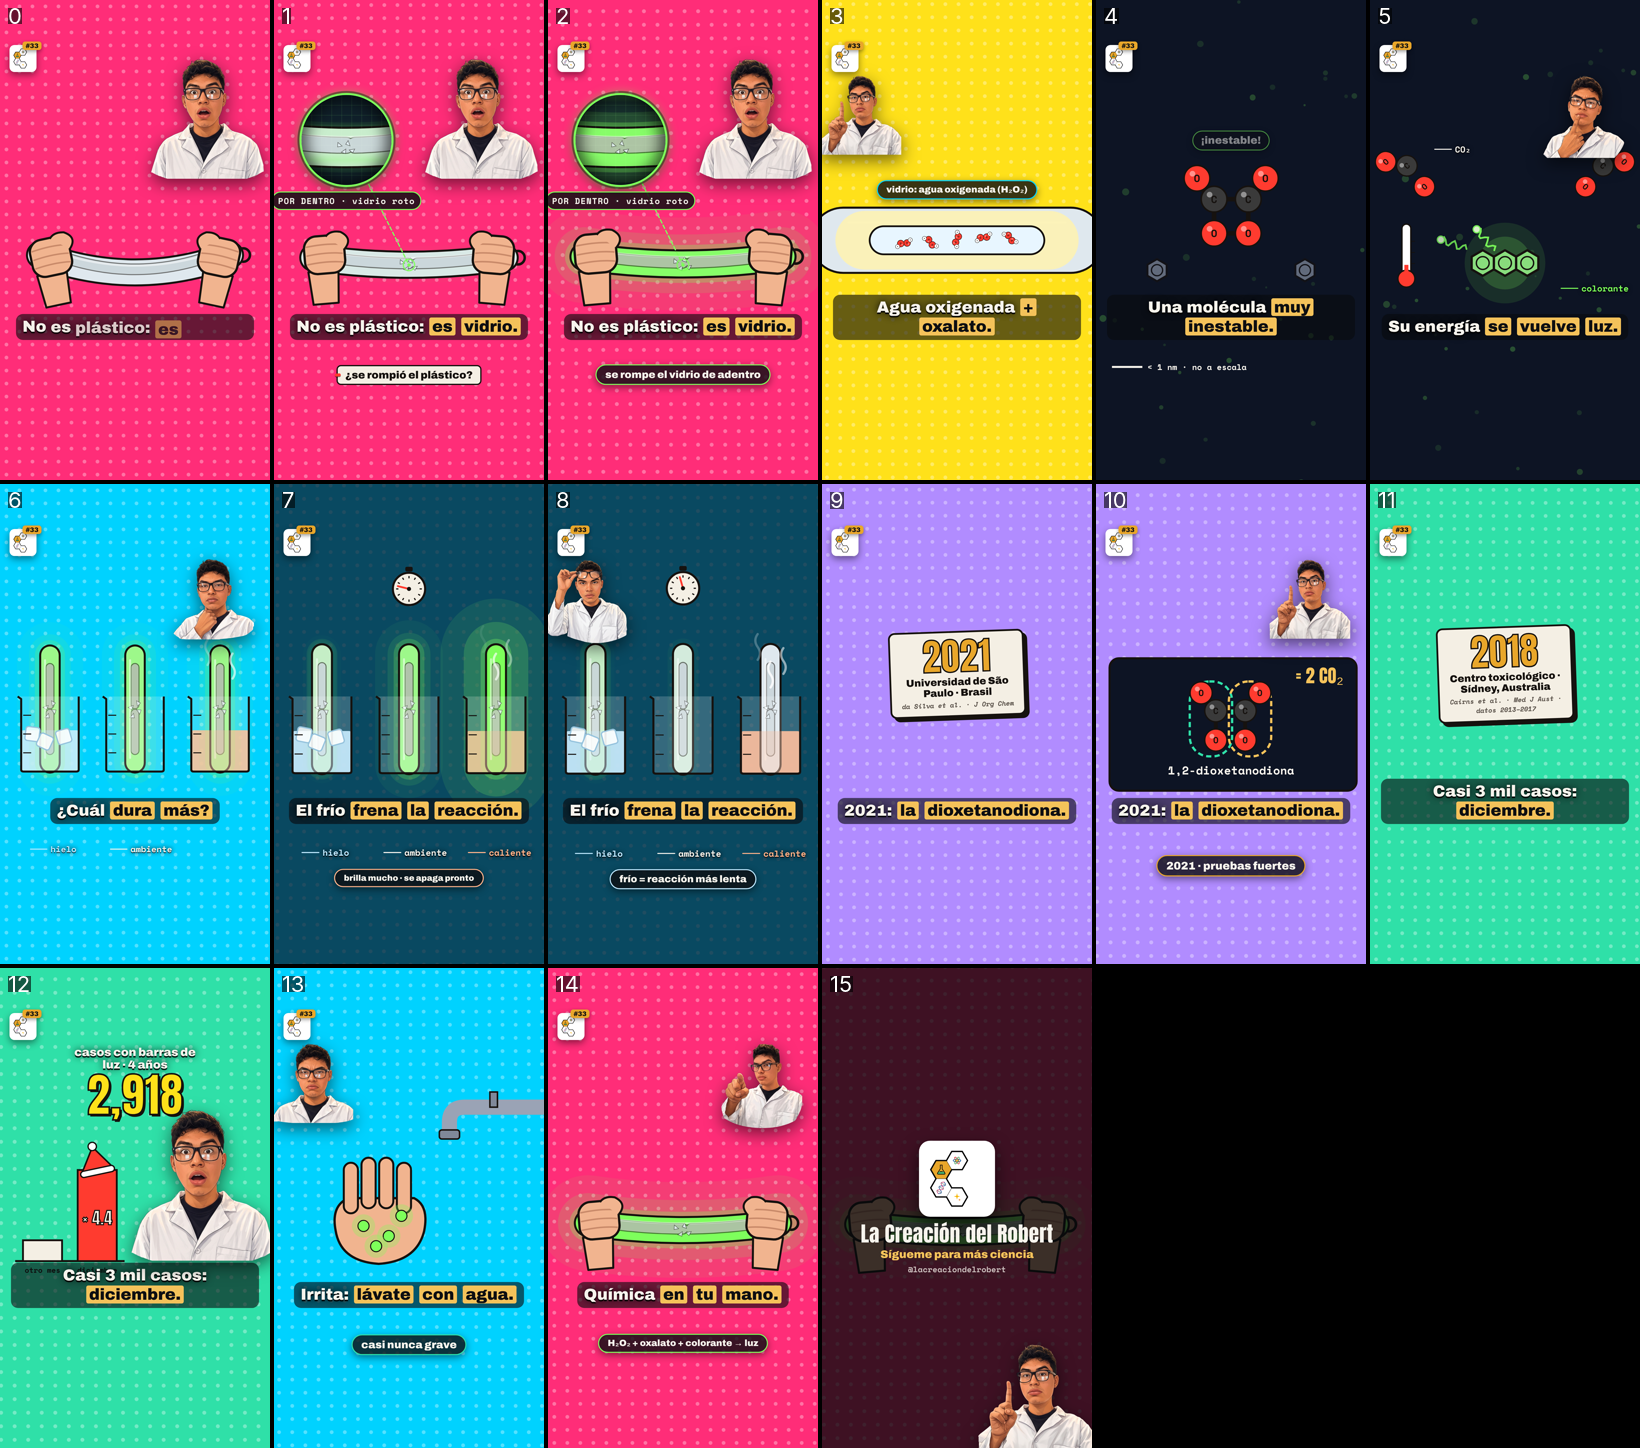
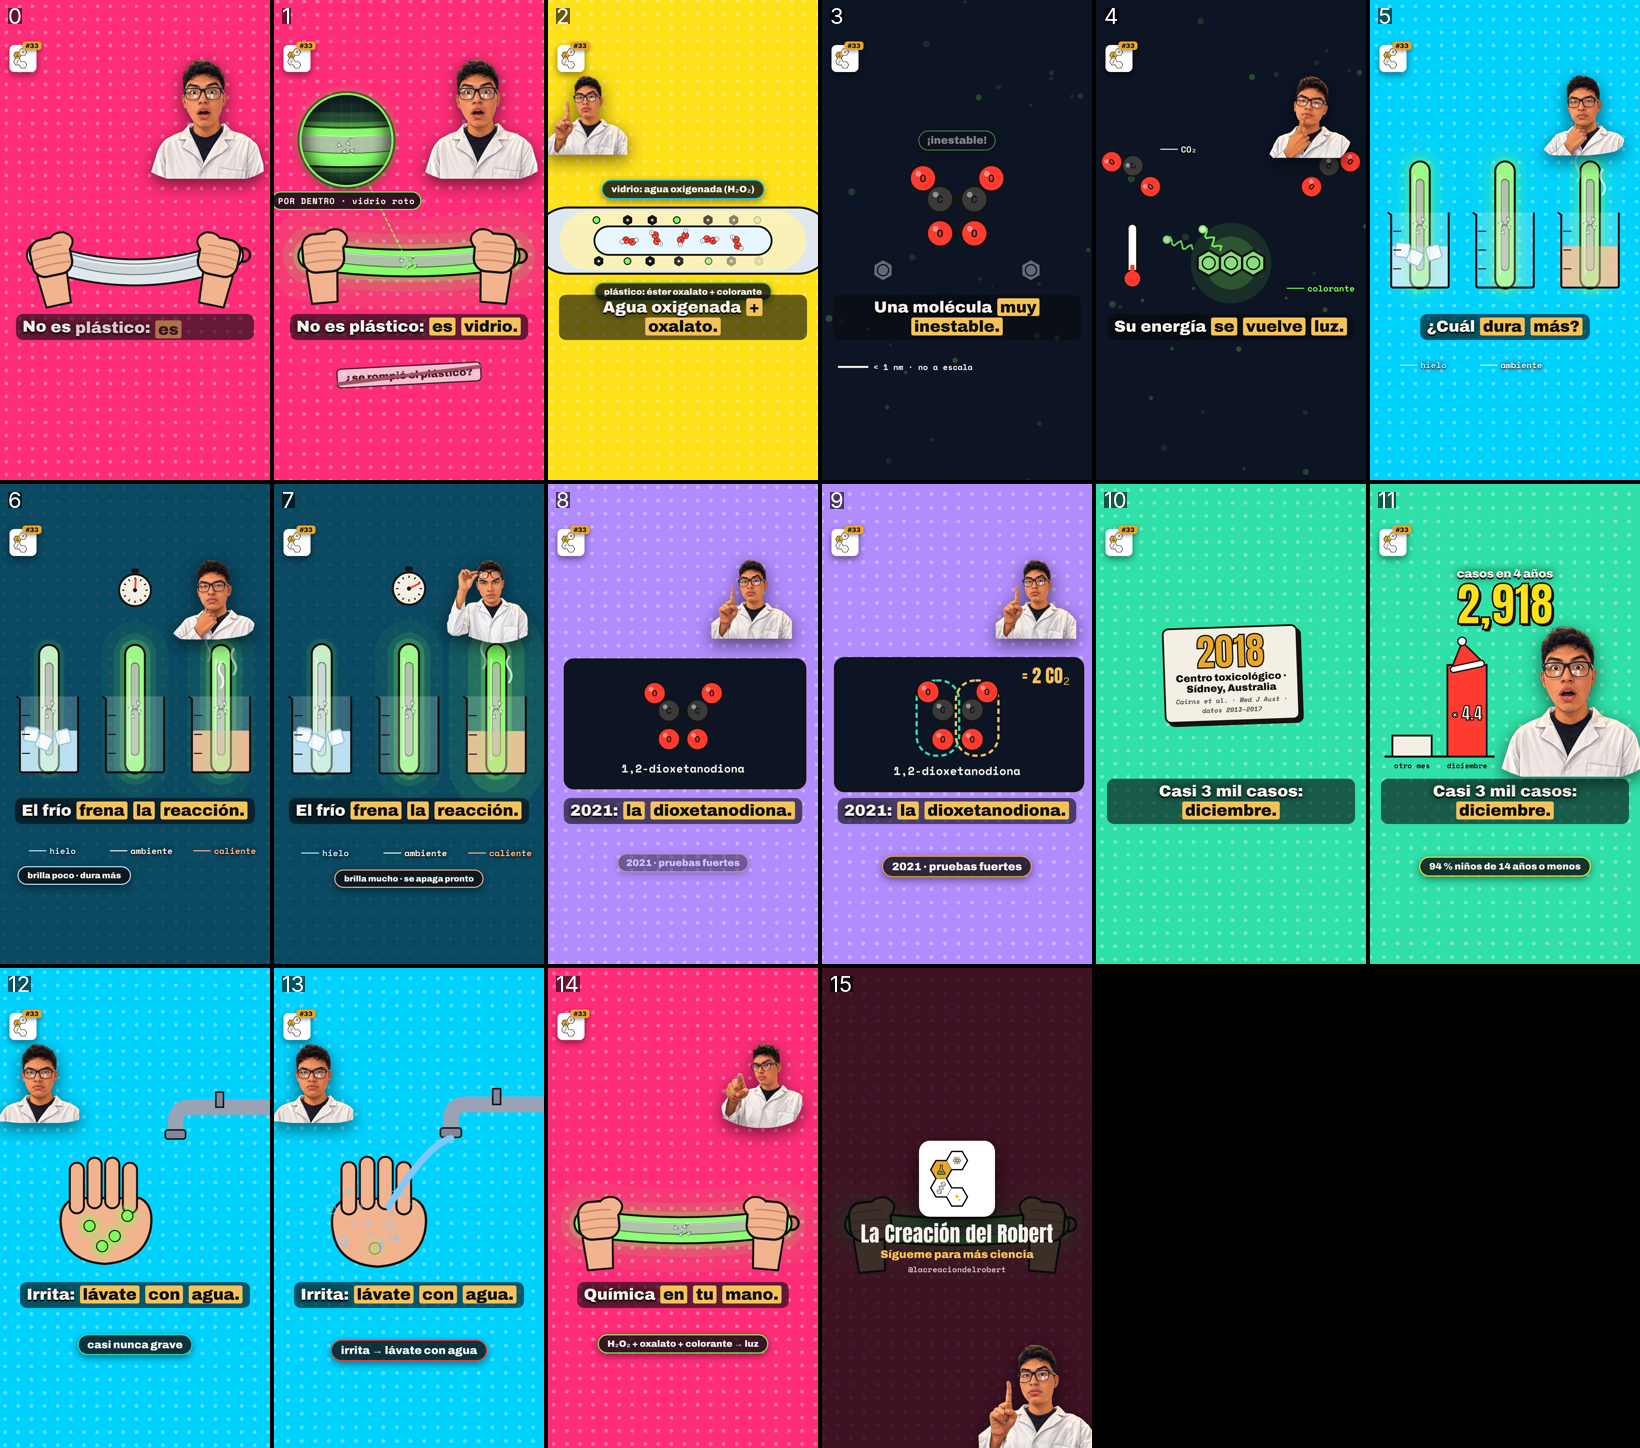
Químico: avance en progreso [sin render]
Claude-Session: https://claude.ai/code/session_0157fpgzuJM3ymsKtSoqvmnt

diff --git a/borradores/qui-30-protector-solar/protector.jsx b/borradores/qui-30-protector-solar/protector.jsx
@@ -294,7 +294,7 @@ function Protector() {
         <SvgCapa>
           <Sol T={T} x={560} y={420} r={60} />
           {Array.from({ length: 6 }, (_, i) => <path key={i} d={`M ${i * 200 - 40 + (T * 30) % 200} 800 q 50 -24 100 0`} stroke="#bfe8ff" strokeWidth={6} fill="none" />)}
-          {Array.from({ length: 42 }, (_, i) => { const c = i % 7, r = Math.floor(i / 7), on = kprog(T, K.Pl + 0.8 + i * 0.05, K.Pl + 1.0 + i * 0.05, kEase.rebote), fuera = 1 - kprog(T, K.Pl + 3.4, K.Pl + 3.8);
+          {Array.from({ length: 42 }, (_, i) => { const c = i % 7, r = Math.floor(i / 7), on = kprog(T, K.Pl + 0.8 + i * 0.05, K.Pl + 1.0 + i * 0.05, kEase.rebote), fuera = 1 - kprog(T, K.Pl + 3.2, K.Pl + 3.5);
             return on > 0 ? <Personita key={i} x={110 + c * 80} y={930 + r * 50} s={0.9 * on} o={fuera} color={[KC.pink, KC.orange, KC.mint, KC.lilac, KC.cyan][i % 5]} /> : null; })}
           {(() => { const o2 = kprog(T, K.Pl + 3.6, K.Pl + 4.1), pie = kprog(T, K.Pl + 4.3, K.Pl + 5.2, kEase.sale);
             if (o2 <= 0) return null;
@@ -308,7 +308,7 @@ function Protector() {
               <text x={790} y={880} textAnchor="middle" style={{ font:`400 70px ${KF.titulo}` }} fill={KC.ink}>¼</text>
             </g>; })()}
         </SvgCapa>
-        <div style={{ position:'absolute', left:850, top:1030, transform:'translate(-50%,-50%)', zIndex:41, textAlign:'center', opacity:kprog(T, K.Pl + 0.8, K.Pl + 1.1) * (1 - kprog(T, K.Pl + 3.4, K.Pl + 3.8)) }}>
+        <div style={{ position:'absolute', left:850, top:1030, transform:'translate(-50%,-50%)', zIndex:41, textAlign:'center', opacity:kprog(T, K.Pl + 0.8, K.Pl + 1.1) * (1 - kprog(T, K.Pl + 3.2, K.Pl + 3.5)) }}>
           <div style={{ font:`400 150px/1 ${KF.titulo}`, color:KC.texto, WebkitTextStroke:`5px ${KC.ink}` }}>{Math.min(42, Math.max(0, Math.floor((T - K.Pl - 0.8) / 0.05) + 1))}</div>
           <div style={{ font:`900 36px ${KF.texto}`, color:KC.ink }}>personas</div>
         </div>
@@ -356,7 +356,7 @@ function Protector() {
       <Chip T={T} at={K.Ca + 0.4} until={K.Pr - 0.2} texto="energía → un poquito de calor" y={1500} tam={40} borde={CALOR} />
       <Chip T={T} at={K.Pr + 0.3} until={K.Es - 0.2} texto="óxido de zinc · dióxido de titanio" y={1500} tam={36} borde={KC.texto} />
       <TarjetaEstudio T={T} at={K.Es + 0.2} until={K.Es + 3.3} anio="2016" quien="Cole, Shyr y Ou-Yang" revista="Nueva Jersey, EUA · esfera integradora" y={1590} />
-      <MitoTachado T={T} at={K.Es + 3.7} tacharEn={K.Es + 5.0} until={K.Fp - 0.2} texto="minerales = espejitos" y={1700} tam={40} />
+      <MitoTachado T={T} at={K.Es + 3.7} tacharEn={K.Es + 5.0} until={K.Fp - 0.2} texto="minerales = espejitos" y={1780} tam={40} />
       <Chip T={T} at={K.La + 3.6} until={K.Pl - 0.2} texto="así se mide la etiqueta (FDA)" y={1500} tam={40} borde={KC.gold} />
       <Chip T={T} at={K.La + 0.6} until={K.La + 3.4} texto="2 mg en cada cm² de piel" y={1500} tam={42} borde={KC.gold} />
       <TarjetaEstudio T={T} at={K.Pl + 0.2} until={K.Pl + 3.1} anio="1992" quien="Bech-Thomsen y Wulf" revista="investigadores de Copenhague, Dinamarca" y={1590} />
@@ -374,8 +374,8 @@ function Protector() {
       <Subtitulo T={T} idx={6} at={K.Fp + 0.1} until={K.La - 0.1} texto="FPS 30: *filtra 97 %.*" />
       <Subtitulo T={T} idx={7} at={K.La + 0.1} until={K.Pl - 0.1} texto="En laboratorio: *2 mg/cm².*" />
       <Subtitulo T={T} idx={8} at={K.Pl + 0.1} until={K.Me - 0.1} texto="Playa: *la cuarta parte.*" />
-      <Subtitulo T={T} idx={9} at={K.Me + 0.1} until={K.Ci - 0.1} texto="Con menos: *protege menos.*" />
-      <Subtitulo T={T} idx={10} at={K.Ci + 0.1} until={K.Ou - 0.1} texto="Esponja: *ponle suficiente.*" />
+      <Subtitulo T={T} idx={9} at={K.Me + 0.1} until={K.Ci - 0.1} texto="Menos crema, *menos FPS.*" />
+      <Subtitulo T={T} idx={10} at={K.Ci + 0.1} until={K.Ou - 0.1} texto="*Esponja:* ponle suficiente." />
 
       <Robert T={T} apariciones={[
         [CUES.Gancho - 0.45, CUES.Gancho + 5.0, 'avatar_11_sorprendido', 'gancho'],

diff --git a/borradores/qui-33-barras-luz/barraluz.jsx b/borradores/qui-33-barras-luz/barraluz.jsx
@@ -255,18 +255,18 @@ function BarraLuzShot() {
         <FondoLunares color={KC.mint} />
         <SvgCapa>
           <g opacity={kprog(T, K.Da + 4.6, K.Da + 5.0)}>
-            <line x1={80} y1={1160} x2={500} y2={1160} stroke={KC.ink} strokeWidth={8} />
-            <rect x={110} y={1160 - 80} width={150} height={80} fill={KC.paper} stroke={KC.ink} strokeWidth={7} />
-            <rect x={320} y={1160 - 80 - 270 * barraDic} width={150} height={80 + 270 * barraDic} fill={KC.red} stroke={KC.ink} strokeWidth={7} />
-            <text x={185} y={1205} textAnchor="middle" style={{ font:`700 28px ${KF.mono}` }} fill={KC.ink}>otro mes</text>
-            <text x={395} y={1205} textAnchor="middle" style={{ font:`700 28px ${KF.mono}` }} fill={KC.ink}>diciembre</text>
-            {barraDic > 0.9 && <g transform={`translate(395 ${1160 - 350}) rotate(-12)`}>
+            <line x1={80} y1={1080} x2={500} y2={1080} stroke={KC.ink} strokeWidth={8} />
+            <rect x={110} y={1080 - 80} width={150} height={80} fill={KC.paper} stroke={KC.ink} strokeWidth={7} />
+            <rect x={320} y={1080 - 80 - 270 * barraDic} width={150} height={80 + 270 * barraDic} fill={KC.red} stroke={KC.ink} strokeWidth={7} />
+            <text x={185} y={1125} textAnchor="middle" style={{ font:`700 28px ${KF.mono}` }} fill={KC.ink}>otro mes</text>
+            <text x={395} y={1125} textAnchor="middle" style={{ font:`700 28px ${KF.mono}` }} fill={KC.ink}>diciembre</text>
+            {barraDic > 0.9 && <g transform={`translate(395 ${1080 - 350}) rotate(-12)`}>
               <path d="M -60 0 L 0 -90 L 60 0 Z" fill={KC.red} stroke={KC.ink} strokeWidth={6} /><rect x={-66} y={-6} width={132} height={24} rx={12} fill="#fff" stroke={KC.ink} strokeWidth={5} /><circle cx={0} cy={-92} r={16} fill="#fff" stroke={KC.ink} strokeWidth={5} /></g>}
-            {barraDic > 0.9 && <text x={395} y={1160 - 140} textAnchor="middle" style={{ font:`400 64px ${KF.titulo}` }} fill={KC.paper} stroke={KC.ink} strokeWidth={4}>× 4.4</text>}
+            {barraDic > 0.9 && <text x={395} y={1080 - 140} textAnchor="middle" style={{ font:`400 64px ${KF.titulo}` }} fill={KC.paper} stroke={KC.ink} strokeWidth={4}>× 4.4</text>}
           </g>
         </SvgCapa>
         <TarjetaEstudio T={T} at={K.Da + 0.2} until={K.Da + 3.2} anio="2018" quien="Centro toxicológico · Sídney, Australia" revista="Cairns et al. · Med J Aust · datos 2013–2017" y={760} />
-        <NumeroGigante T={T} at={K.Da + 3.3} until={K.Se - 0.3} valor={2918} dur={1.2} etiqueta="casos con barras de luz · 4 años" x={540} y={470} tam={180} color={KC.yellow} />
+        <NumeroGigante T={T} at={K.Da + 3.3} until={K.Se - 0.3} valor={2918} dur={1.2} etiqueta="casos en 4 años" x={540} y={470} tam={180} color={KC.yellow} />
         <Chip T={T} at={K.Da + 6.0} until={K.Se - 0.3} texto="94 % niños de 14 años o menos" x={540} y={1500} tam={36} borde={KC.yellow} />
       </Escena>
       {/* 8 · seguridad: irrita, lávate con agua */}
@@ -323,7 +323,7 @@ function BarraLuzShot() {
         [CUES.Que + 0.8, CUES.Mezcla - 0.3, 'avatar_13_senalando_arriba', 'izq-alto'],
         [CUES.Energia + 0.8, CUES.Experimento - 0.3, 'avatar_06_pensativo_menton', 'arriba-der'],
         [CUES.Experimento + 1.0, CUES.Resultado + 1.5, 'avatar_07_pensativo_puno', 'arriba-der'],
-        [CUES.Resultado + 3.0, CUES.Estudio - 0.3, 'avatar_04_bajando_lentes', 'izq-alto'],
+        [CUES.Resultado + 3.0, CUES.Estudio - 0.3, 'avatar_04_bajando_lentes', 'arriba-der'],
         [CUES.Estudio + 3.6, CUES.Dato - 0.3, 'avatar_13_senalando_arriba', 'arriba-der'],
         [CUES.Dato + 4.0, CUES.Seguridad - 0.2, 'avatar_11_sorprendido', 'grande'],
         [CUES.Seguridad + 0.4, CUES.Cierre - 0.2, 'avatar_10_serio_molesto', 'izq-alto'],

diff --git a/borradores/qui-38-refresco-dientes/verificacion.md b/borradores/qui-38-refresco-dientes/verificacion.md
@@ -1,0 +1,48 @@
+# Verificación de hechos · qui-38-refresco-dientes
+
+29 oct 2026 · verificación independiente (agente que no escribió el guion).
+
+Fuentes abiertas por el verificador:
+- **[R]** Reddy A. et al. "The pH of beverages in the United States." *J Am Dent Assoc* 147(4):255–263 (2016). Manuscrito de autor en PMC: https://pmc.ncbi.nlm.nih.gov/articles/PMC4808596/ (dice 380 bebidas; la versión publicada y la página de la ADA dicen 379).
+- **[D]** Dawes C. "What is the critical pH and why does a tooth dissolve in acid?" *J Can Dent Assoc* 69(11):722–724 (2003). https://jcda.ca/sites/default/files/back_issues/vol-69/issue-11/722.pdf (PDF leído completo).
+- **[ADA]** American Dental Association, "Dental Erosion", actualizado el 22 oct 2025. https://www.ada.org/resources/ada-library/oral-health-topics/dental-erosion
+- **[OMS]** OMS, "Oral health", nota descriptiva, 17 mar 2025. https://www.who.int/news-room/fact-sheets/detail/oral-health
+- **[E]** Literatura sobre el tiempo de grabado ácido (búsqueda del 29 oct 2026): Gardner & Hobson (Newcastle, eprints.ncl.ac.uk/95881), instrucciones de grabadores al 37 % (p. ej. global.bisco.com/etch-37: 15 s) y revisiones en PMC (PMC8919743, PMC8541027) que citan 15–30 s como práctica clínica.
+
+| # | Afirmación (voz o pantalla) | Veredicto | Fuente | Frase textual | Año del dato |
+|---|---|---|---|---|---|
+| 1 | El refresco no solo es dulce, también es ácido (voz 0) | ✅ | [R] | "Coca-Cola Classic … 2.37 ± 0.03" (colas regulares con pH ~2.3–2.4) | 2016 |
+| 2 | El ácido disuelve el cristal de los dientes (voz 0) | ✅ | [D] | "a tooth will dissolve in saliva or plaque fluid only if the pH is reduced to less than the critical pH" | 2003 |
+| 3 | El esmalte es sobre todo hidroxiapatita, cristales de calcio y fosfato; fórmula Ca₁₀(PO₄)₆(OH)₂ (voz 1 y pantalla) | ✅ | [D] | "Dental enamel is composed primarily of hydroxyapatite (HA), Ca10(PO4)6(OH)2" | 2003 |
+| 4 | Pantalla: capa de afuera "esmalte" y adentro "dentina"; cristales como varillas hexagonales | ✅ (esquemático) | Anatomía dental básica | Dibujo esquemático; la hidroxiapatita cristaliza en el sistema hexagonal | — |
+| 5 | Si el pH baja de 5.5, más o menos, los cristales empiezan a disolverse (voz 2) | ✅ (gracias al "más o menos") | [R], [D] | [R]: "Surface enamel starts to demineralize as the pH drops below 5.5." [D]: "the critical pH may be 6.5, whereas in those with high salivary calcium and phosphate concentrations, it may be 5.5" | 2016 / 2003 |
+| 6 | Pantalla: el medidor del "pH de tu boca" empieza en ~7 (saliva) | ✅ | Conocimiento general (saliva ≈ 6.2–7.6) | — | — |
+| 7 | Pantalla: la flecha del medidor del **pH de la boca** cae hasta ~2–3 (escena 3) | ⚠ | [R] | [R] mide el pH **de las bebidas**, no el de la boca. El refresco que toca el diente ronda 2.4, pero la saliva sube el pH enseguida, así que decir que tu boca llega a 2–3 exagera. | 2016 |
+| 8 | Las colas traen ácido fosfórico; otros refrescos, ácido cítrico (voz 3) | ✅ | [R] | "Phosphoric acid is added to cola drinks to impart tartness." · "Citric acid, a substance naturally occurring in citrus drinks" (lo agregan a muchas bebidas) | 2016 |
+| 9 | Los iones de hidrógeno atacan los cristales y el esmalte se ablanda y se desgasta (voz 4) | ✅ | [R] | Los iones de hidrógeno reaccionan con los cristales de hidroxiapatita ("proton-promoted dissolution") · "immediate softening of the tooth surface" | 2016 |
+| 10 | Pantalla: se sueltan Ca²⁺ y PO₄³⁻ | ⚠ (menor) | [D] | [D]: al bajar el pH "the concentrations of both OH– and PO43– are reduced": en ácido el fosfato sale sobre todo como HPO₄²⁻/H₂PO₄⁻, no como PO₄³⁻. | 2003 |
+| 11 | El azúcar: las bacterias de la placa la convierten en ácido (voz 5; chip "caries") | ✅ | [OMS] | "Dental caries results when plaque forms on the surface of a tooth and converts the free sugars … into acids that destroy the tooth over time." | 2025 |
+| 12 | En 2016 (voz 7) | ✅ | [R] | Publicado en JADA 147(4), 2016. La voz dice el año, así que cumple la regla de los más de 2 años. | 2016 |
+| 13 | "en la Universidad de Alabama" (voz 7) | ⚠ | [R] | Afiliación: "The University of Alabama at Birmingham" (UAB). "Universidad de Alabama" a secas es otra institución, con sede en Tuscaloosa. | 2016 |
+| 14 | Midieron 379 bebidas (voz y pantalla) | ✅ | [R] publicado, [ADA] | [ADA]: el estudio de 2016 midió 379 bebidas de EUA y encontró que "93% had a pH of less than 4.0". (El manuscrito en PMC dice 380 y 355/380; el 93 % es igual en las dos versiones.) | 2016 |
+| 15 | 93 % tenía pH menor a 4 (voz y pantalla) | ✅ | [R], [ADA] | "The majority (93%, 355/380) of beverages had a pH below 4.0" | 2016 |
+| 16 | Las colas normales, cerca de 2.4 (voz; número gigante 2.4 en pantalla) | ✅ | [R] | Coca-Cola Classic 2.37, Pepsi 2.39, RC Cola 2.32 (las de dieta ≈ 3) | 2016 |
+| 17 | Pantalla: "agua de la llave 7.2" | ⚠ (menor) | [R] | "Birmingham Municipal Water, pH 7.20": es el agua municipal de Birmingham, no el agua de la llave en general (que varía según la ciudad). | 2016 |
+| 18 | Pantalla: tarjeta "2016 · Reddy et al. · Univ. de Alabama en Birmingham · JADA" | ✅ | [R] | Coincide con el artículo. | 2016 |
+| 19 | Al terminar, enjuágate con agua en vez de cepillarte enseguida (voz 8) | ✅ | [ADA] | "Rinse with water rather than brushing teeth immediately after consuming acidic beverages." | 2025 |
+| 20 | Usa popote detrás de los dientes de enfrente (voz 8) | ✅ | [ADA] | "Drinking with a straw positioned behind the front teeth can minimize bathing the teeth." | 2025 |
+| 21 | El dentista graba el esmalte con ácido fosfórico al 37 % (voz 9) | ✅ | [D] | "the acid-etch technique, which usually employs 37% phosphoric acid" | 2003 |
+| 22 | …unos 10 segundos (voz 9; cronómetro "10 s" en pantalla) | ⚠ | [D] vs [E] | [D] (2003) dice "applied for only about 10 s", pero hoy las instrucciones de los grabadores al 37 % piden 15 s para el esmalte y buena parte de la literatura recomienda 30 s (Gardner & Hobson: "an optimum application time of 30 seconds"). El dato tiene más de 20 años y no coincide con la práctica actual. | 2003 |
+| 23 | …antes de pegar resina (voz 9; resina que se agarra al microrrelieve) | ✅ | [D] + técnica de grabado ácido | [D] relaciona el grabado con la adhesión de la resina: "reduces the strength of bonding to composite resin" (cuando la saliva contamina el esmalte grabado) | 2003 |
+| 24 | El esmalte que se va no regresa (voz 10; "esmalte: no vuelve a crecer") | ✅ | [D] | "enamel that has suffered surface erosion by acid cannot be recalcified" · "enamel erosion is irreversible" | 2003 |
+| 25 | Pantalla final: lata con "pH ≈ 2.4" | ✅ (siempre que sea una cola genérica) | [R] | Igual que el #16 | 2016 |
+| 26 | Marcas comerciales en pantalla | ✅ (cuidar en la animación) | — | En la columna "Lo que se ve" no aparece ninguna marca: lata y cola genéricas. Las marcas (Coca-Cola, Pepsi, RC) solo están en las Notas. En la animación, la lata debe ir **sin logo ni nombre de marca** (por ejemplo, una lata roja o café con la palabra "COLA" o sin texto). | — |
+
+## Correcciones necesarias
+
+1. **#13 "Universidad de Alabama" (⚠):** cambiar la voz a "En 2016, en la Universidad de Alabama en Birmingham, midieron 379 bebidas…". Si no cabe en el tiempo: "En 2016, en Alabama, Estados Unidos, midieron 379 bebidas…".
+2. **#22 "unos 10 segundos" (⚠):** quitar la cifra. Propuesta: "Lo curioso: tu dentista graba el esmalte con ácido fosfórico al 37 por ciento, por unos segundos, antes de pegar resina." En pantalla, cambiar el cronómetro "10 s" por un reloj sin número o por "segundos". (Otra opción: "de 15 a 30 segundos", citando las instrucciones del fabricante y Gardner & Hobson, pero tendría que verificarse aparte.)
+3. **#7 Medidor del pH de la boca cayendo a 2–3 (⚠):** en la escena 3, ponerle al medidor la etiqueta "pH del refresco" (o que un segundo medidor, el de la lata, marque ~2.4) en lugar de que el pH de la boca baje a 2–3. El medidor de la boca puede bajar solo un poco, por debajo de la línea de 5.5.
+4. **#17 "agua de la llave 7.2" (⚠ menor):** cambiar a "agua (Birmingham) 7.2" o "agua ≈ 7".
+5. **#10 "PO₄³⁻" (⚠ menor):** etiquetar los iones sueltos como "Ca²⁺" y "fosfato" (sin la carga), o usar "HPO₄²⁻".
+6. **#26 Marcas:** no hace falta corregir el guion. Al animar, que la lata no lleve logo, colores ni tipografía de ninguna marca real.
